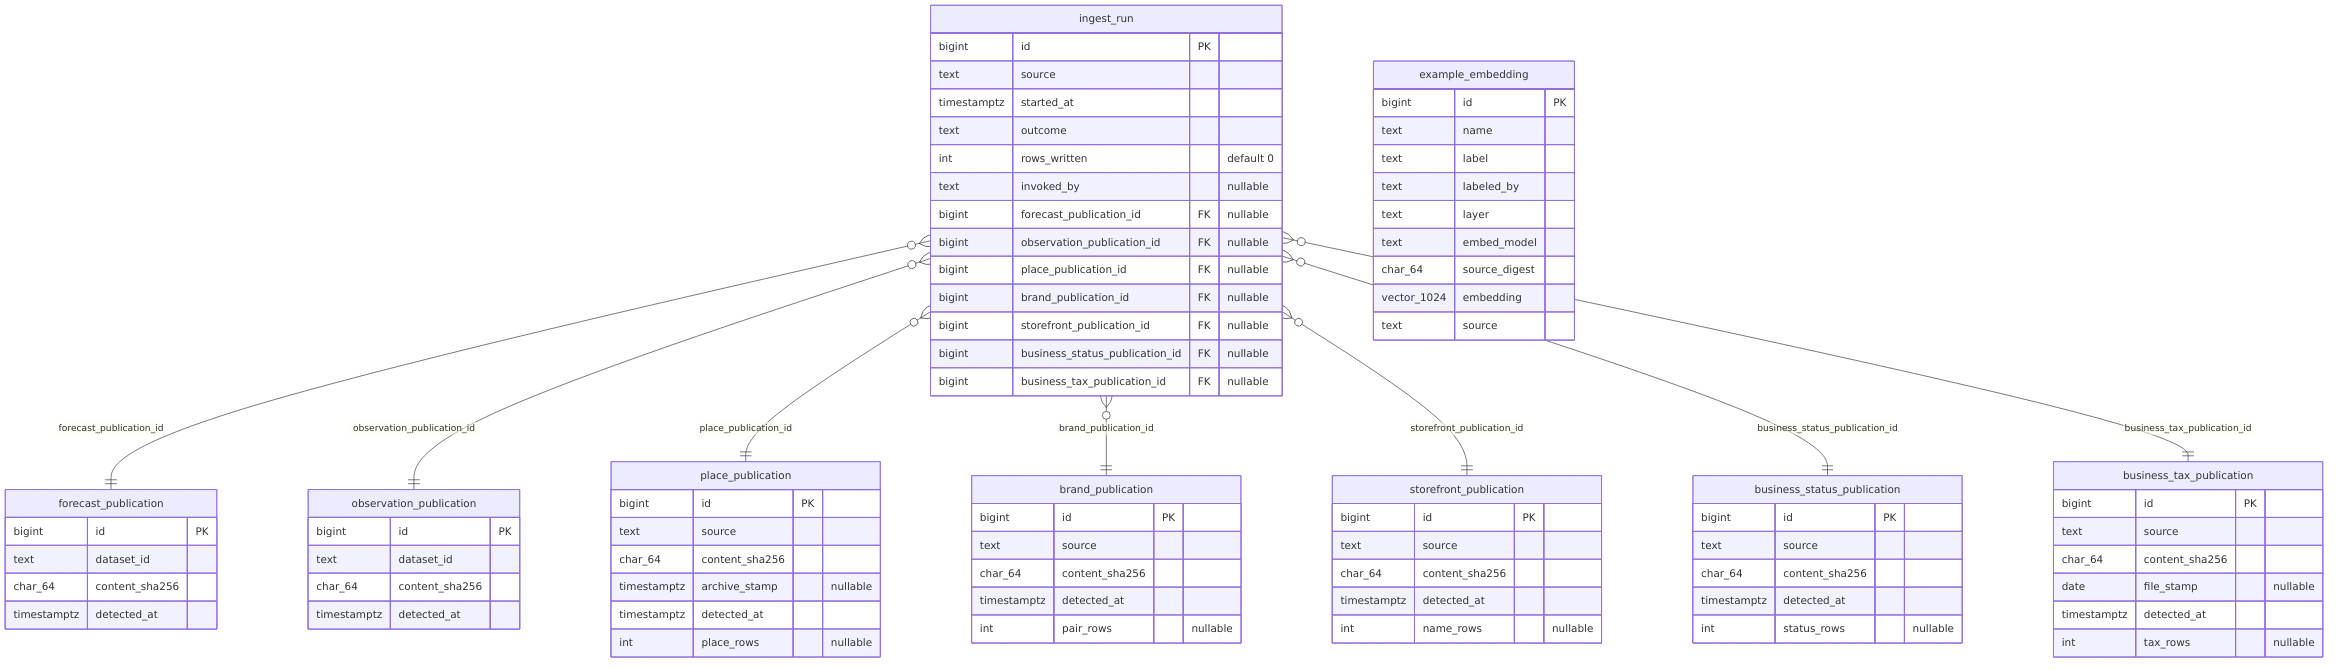
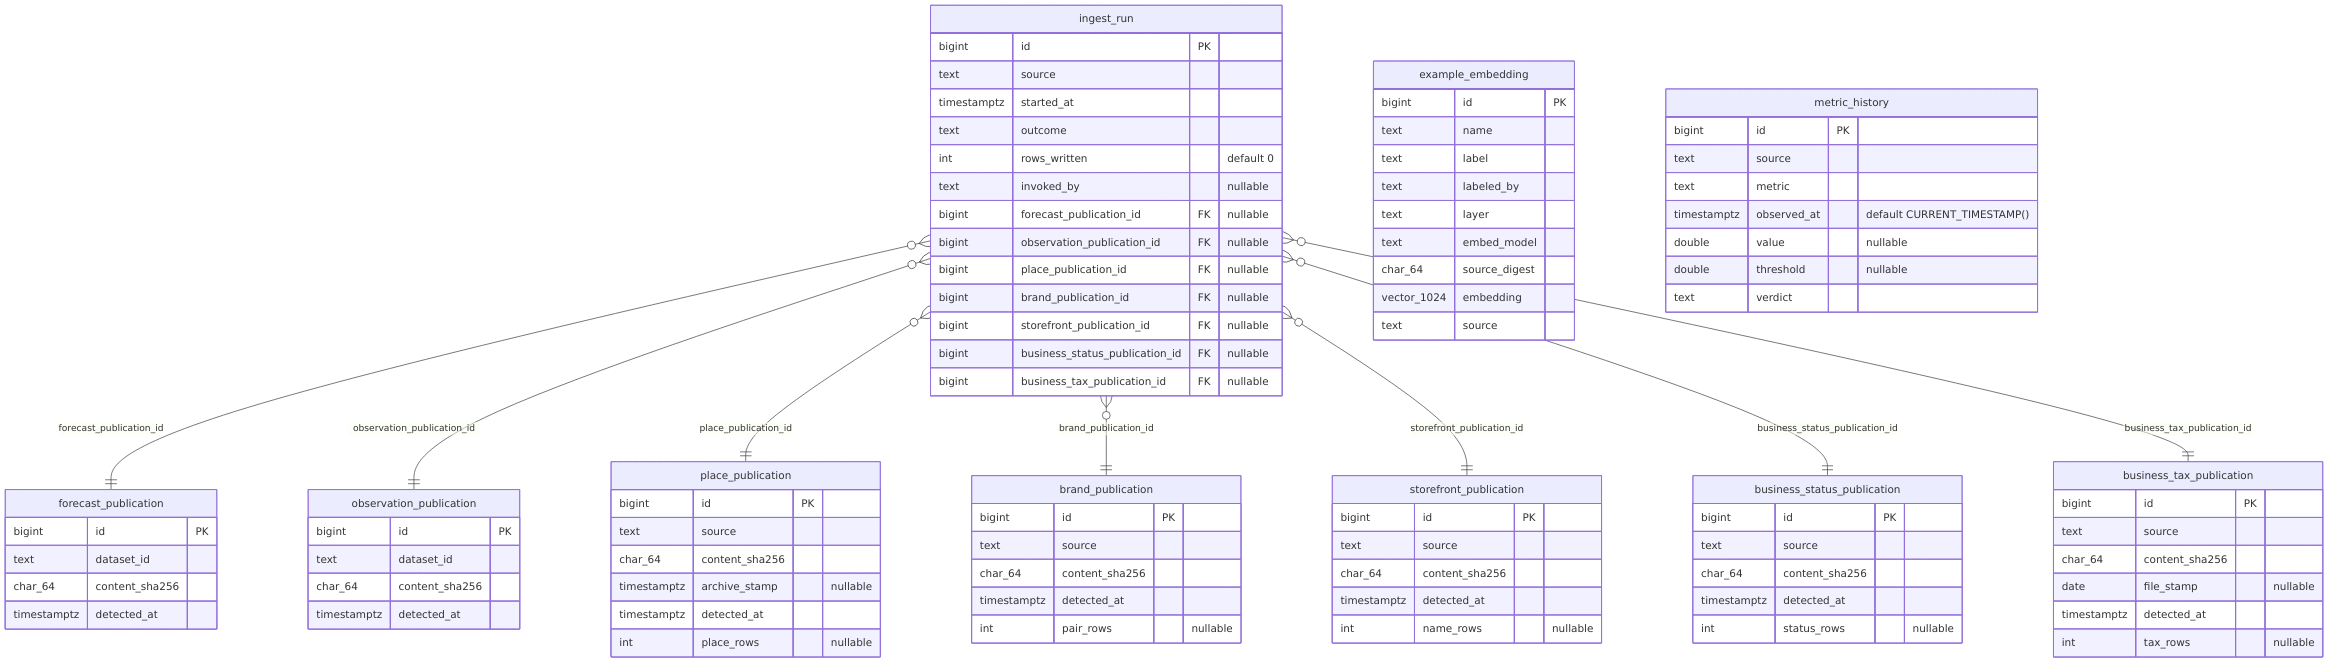
ER diagrams regenerated: join_ticket (0044) and metric_history (0046) were in no diagram — added to er_schema's STORY and to the product and ledger clusters; overview, product and ledger redrawn, build.sh --check clean
Claude-Session: https://claude.ai/code/session_01725jfRNb4iQBJwzZP54Twk

diff --git a/docs/diagrams/er_schema.py b/docs/diagrams/er_schema.py
@@ -80,8 +80,8 @@ CLUSTERS = (
     ),
     (
         "product",
-        ("circle", "principal", "member", "device_secret", "place", "round", "proposal",
-         "weight_contribution", "member_roll", "preference", "trip",
+        ("circle", "principal", "member", "device_secret", "join_ticket", "place", "round",
+         "proposal", "weight_contribution", "member_roll", "preference", "trip",
          "round_forecast_baseline"),
         # weight_contribution pins each contextual factor to the exact reading it was
         # computed from — a composite FK into the weather cluster.
@@ -89,7 +89,7 @@ CLUSTERS = (
     ),
     (
         "ledger",
-        ("ingest_run", "example_embedding"),
+        ("ingest_run", "example_embedding", "metric_history"),
         # ingest_run's seven nullable publication columns, at most one of them set.
         ("forecast_publication", "observation_publication", "place_publication",
          "brand_publication", "storefront_publication", "business_status_publication",
@@ -129,6 +129,8 @@ STORY = {
     "principal": ("created_at",),
     "member": ("nickname", "joined_at"),
     "device_secret": ("secret_sha256", "created_at"),
+    # A24: the shared link a stranger taps to grow a seat (revision 0044).
+    "join_ticket": ("token_sha256", "created_at", "revoked_at", "expires_at"),
     "place": ("origin", "name", "registry_no", "category", "category_model",
               "category_input"),
     "round": ("target_hour", "status", "die1", "die2", "closed_at"),
@@ -155,6 +157,8 @@ STORY = {
     "ingest_run": ("source", "started_at", "outcome", "rows_written", "invoked_by"),
     "example_embedding": ("name", "label", "labeled_by", "layer", "embed_model",
                           "source", "source_digest", "embedding"),
+    # A28 question 1: one row per value check per metric (revision 0046).
+    "metric_history": ("source", "metric", "observed_at", "value", "threshold", "verdict"),
 }
 
 TITLES = {
